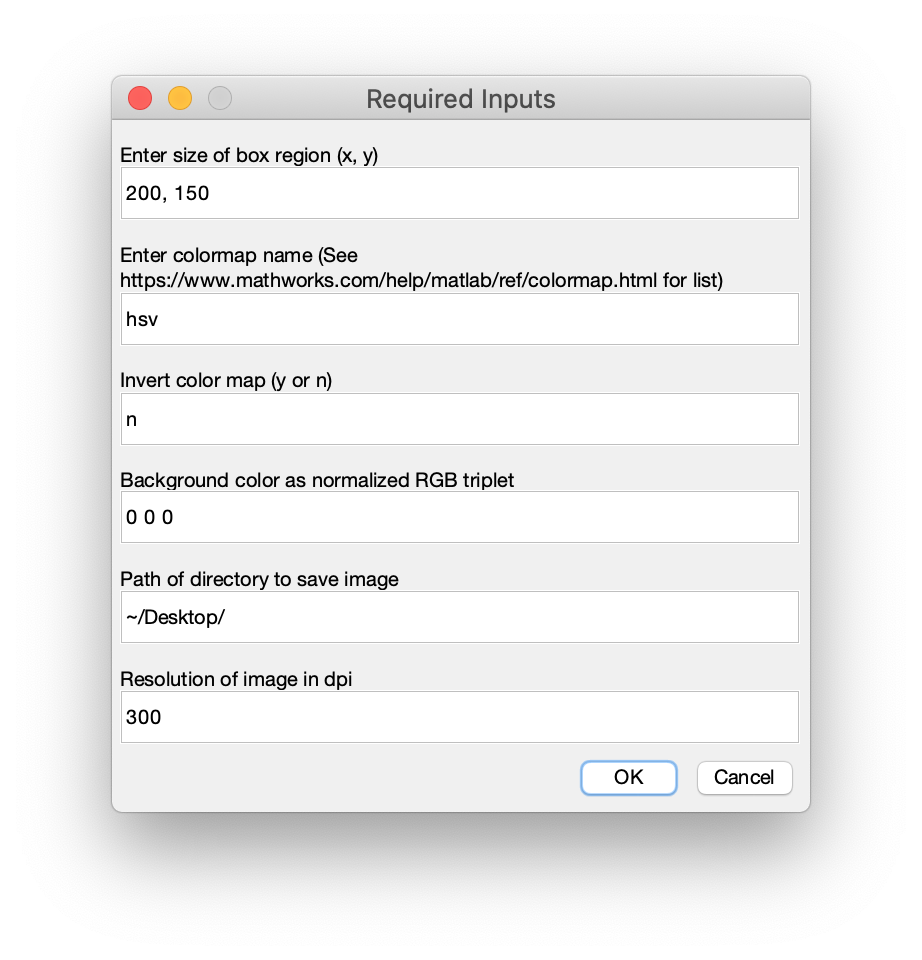
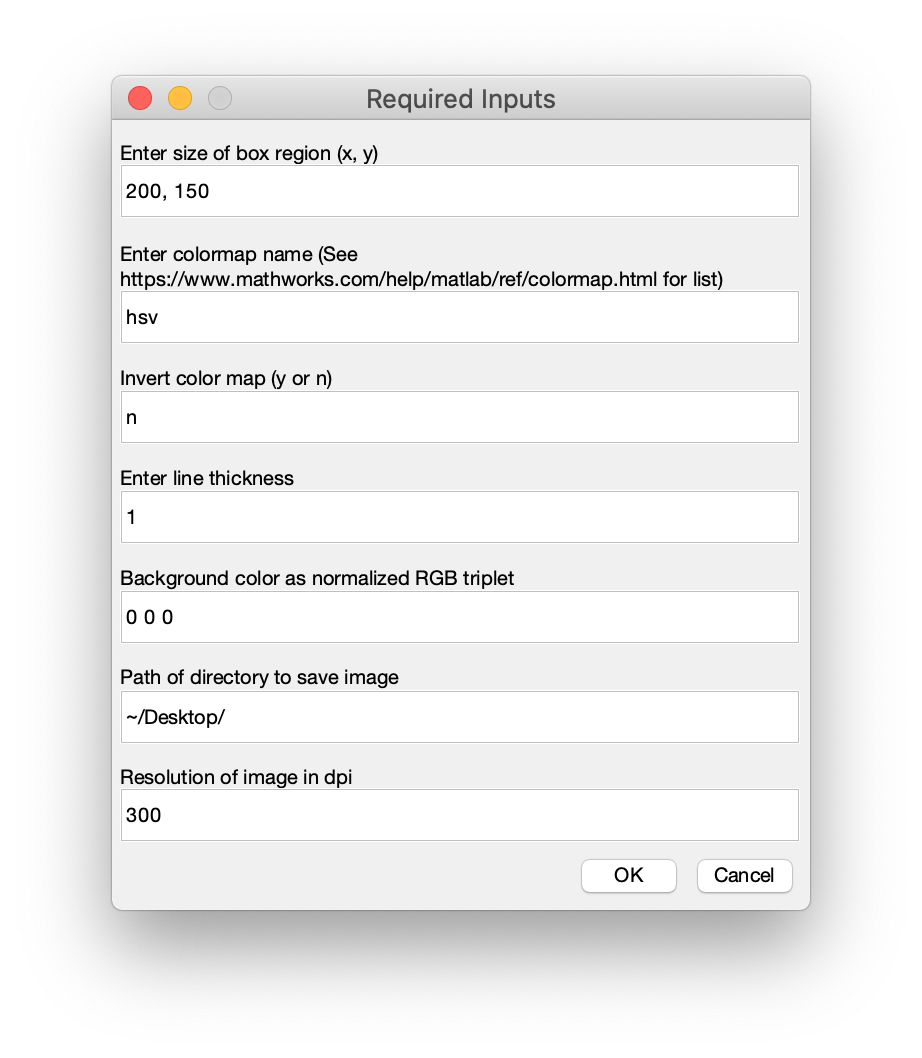
Added ability to modify the thinkness of the drawn lines

Changed region(s): [[0.1215, 0.0625, 0.8807, 0.7812], [0.1215, 0.7812, 0.8807, 0.875]]

diff --git a/random_walk_art.m b/random_walk_art.m
@@ -1,46 +1,46 @@
 % Allow user to input size of image, color map, directory to save image
 close all
-clear all
+clearvars
 
 prompt = {'Enter size of box region (x, y)',...
     'Enter colormap name (See https://www.mathworks.com/help/matlab/ref/colormap.html for list)',...
     'Invert color map (y or n)',...
+    'Enter line thickness',...
     'Background color as normalized RGB triplet',...
     'Path of directory to save image',...
     'Resolution of image in dpi'};
 dlgtitle = 'Required Inputs';
 dims = [1 67];
-definput = {'200, 150','hsv','n','0 0 0','~/Desktop/','300'};
+definput = {'200, 150','hsv','n','1','0 0 0','~/Desktop/','300'};
 answer = inputdlg(prompt,dlgtitle,dims,definput);
 
 axis_dim = str2num(answer{1});
 color_map = answer{2};
 if isequal(answer{3},'y')
-    cm = flipud(colormap(color_map));
+    invert_cm=1;
 else
-    cm = colormap(color_map);
+    invert_cm=0;
 end
-backgrd_color=str2num(answer{4});
-dir = answer{5};
-res = answer{6};
+thickness = str2num(answer{4})*0.5;
+backgrd_color=str2num(answer{5});
+dir = answer{6};
+res = answer{7};
 
 clearvars dlgtitle dims definput prompt answer
 
-fig=figure(1);
+fig=figure('Visible', 'off');
 
-
-% Walkers will start away from an edge and will stop once they reach an
-%   edge. They will also not be allowed to walk on a location that has
-%   previously been walked by a different walker.
+% Determine the number of walkers and how many steps each will take.
 area_of_image = axis_dim(1)*axis_dim(2);
-max_walkers = min([ceil(sqrt(area_of_image)), 64]);
-max_steps = area_of_image/max_walkers*ceil(log10(area_of_image));
-walker = 1;
-cm_num = 1;
-if max_walkers < length(cm)
-    cm_scale = length(cm)/max_walkers;
+max_walkers = ceil((area_of_image)^(1/2.2));
+max_steps = area_of_image/max_walkers*floor(log10(area_of_image));
+
+
+% Generate size and inversion of colormap
+if invert_cm == 1
+    cm = flipud(colormap([color_map,'(',num2str(max_walkers),')']));
 else
-    cm_scale = 1;
+    cm = colormap([color_map,'(',num2str(max_walkers),')']);
 end
 
 % Possible new locations surrounding the current location
@@ -51,11 +51,14 @@ step = [[-1 -1];[0 -1];[1 -1];[-1 0];[0 0];[1 0];[-1 1];[0 1];[1 1]];
 % Add two to each dimension for ease in calculation. True walking region is
 %   centered in the matrix (i.e., one extra column and row at both ends).
 walker_matrix = zeros(axis_dim+2);
-walker_matrix(:,1)=-1;
-walker_matrix(1,:)=-1;
-walker_matrix(:,axis_dim(2)+2)=-1;
-walker_matrix(axis_dim(1)+2,:)=-1;
+walker_matrix(:,1)=1;
+walker_matrix(1,:)=1;
+walker_matrix(:,axis_dim(2)+2)=1;
+walker_matrix(axis_dim(1)+2,:)=1;
 
+% Walkers will start away from an edge and will stop once they reach an
+%   edge. They will also not be allowed to walk on a location that has
+%   previously been walked by a different walker.
 % Begin random walk
 for i = 1:max_walkers
     
@@ -67,16 +70,16 @@ for i = 1:max_walkers
     current_loc = start;
     walking_path = current_loc;
     
-    % Walker will now walk till they can take no more steps or reach an
-    %   edge
+    % Walker will now walk till they can take no more steps
     for j = 1:max_steps
         
         % Select neighboring locations that the walker can travel to speed
         %   up process. Also do not allow walker to stand still.
         neighbor_loc = find(walker_matrix(current_loc(1)-1:current_loc(1)+1,current_loc(2)-1:current_loc(2)+1) == 0);
+        % Odd locations will be diagonals and current location
         neighbor_loc = neighbor_loc(mod(neighbor_loc,2) == 0);
         
-        % If at an edge, do not allow to walk out of walking region
+        % If at an edge, do not allow to walk out of walking region.
         if current_loc(1)-1 == 1
             neighbor_loc = neighbor_loc(neighbor_loc ~= 4);
         end
@@ -98,32 +101,25 @@ for i = 1:max_walkers
         % Pick one of the open neighboring cells and step to it.
         step_loc = ceil(rand * length(neighbor_loc));
         new_loc = current_loc + step(neighbor_loc(step_loc),:);
-         
-        % Stop the walker if they exit the walking region
-%         if new_loc(1) < 2 || new_loc(2) < 2 || new_loc(1) > axis_dim(1)-1 || new_loc(2) > axis_dim(2)-1
-%             bread
-%         end
-        
+                 
         current_loc = new_loc;
         walking_path = [walking_path; current_loc];
     end
     
     % Record locations walker has walked
     for j = 1:size(walking_path,1)
-        walker_matrix(walking_path(j,1),walking_path(j,2)) = walker;
+        walker_matrix(walking_path(j,1),walking_path(j,2)) = 1;
     end
     
     % Plot the walked path
     hold on
-    plot(walking_path(:,1),walking_path(:,2),'Color',cm(ceil(cm_num*cm_scale),:))
-    cm_num = cm_num + 1;
+    plot(walking_path(:,1),walking_path(:,2),'Color',cm(i,:),'LineWidth',thickness)
     
-    walker = walker + 1;
     clearvars walking_path
 end
 
 % Clean up figure layout for saving
 resolution=['-r',res];
 set(gca,'XColor', 'none','YColor','none','Position',[0 0 1 1],'Xlim',[1 axis_dim(1)+2],'Ylim',[1 axis_dim(2)+2],'Color',backgrd_color)
-set(gcf,'Color',backgrd_color,'InvertHardCopy', 'off')
+set(gcf,'Color',backgrd_color,'InvertHardCopy', 'off','Position',  [0, 1000, axis_dim(1), axis_dim(2)])
 print(fig,[dir,'Random_walk_art.png'],'-dpng',resolution)

diff --git a/README.md b/README.md
@@ -33,7 +33,7 @@ The following dialog box will open for inputs to be entered.
 
 1. `Enter size of box region (x, y)`: two numbers separated by a comma or space. These 
 respective values give the x and y dimensions of the box that the walkers are constrained. 
-The larger the box is, the more area the walkers have and the long walkers will walk.
+The larger the box is, the more area the walkers have and longer they will walk.
 **NOTE**: If this value is exceedingly large (total area > 250,000), then the code may take 
 several minutes to generate the image. 
 
@@ -45,13 +45,16 @@ defined colormaps can also be used if they are defined before running.
 will likely cover larger areas of the image due to the walkers not being constrained by
 previous walkers.
 
-4. `Background color as normalized RGB triplet`: a normalized (max value of 1) RGB triplet
+4. `Enter line thickness`: the thickness of the line to use for each walker. Values larger
+than the default of 1 will result in thicker lines. Smaller values result in thinner lines.
+
+5. `Background color as normalized RGB triplet`: a normalized (max value of 1) RGB triplet
 containing the color of the background. Values must be separated by a space or comma.
 
-5. `Path of directory to save image`: the path to the directory that the image will be 
+6. `Path of directory to save image`: the path to the directory that the image will be 
 saved.
 
-6. `Resolution of image in dpi`: the resolution of the .png image in dpi (dots per inch). 
+7. `Resolution of image in dpi`: the resolution of the .png image in dpi (dots per inch). 
 High values will result in high resolution images. **NOTE**: Large values (>1000) can 
 require several minutes to save the image.
 
